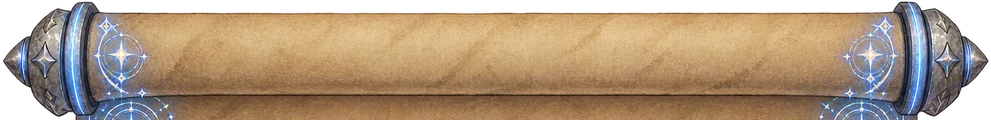
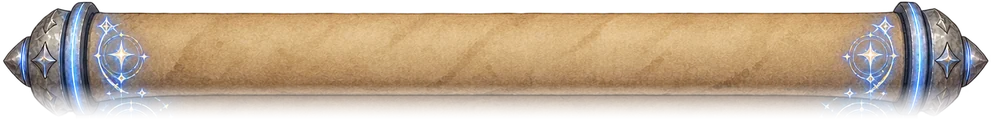
Blended top and bottom roller transition

Changed region(s): [[0.0303, 0.725, 0.9687, 1.0]]

diff --git a/tools/scroll_assets.py b/tools/scroll_assets.py
@@ -17,12 +17,16 @@ Roller crop boxes frame just the roller. Any glow or smoke beyond its outer
 edge (above the top roller, below the bottom one) is kept as well, faded out
 towards the image edge, and the "ext" this prints goes into style.css as
 --roll-top-ext / --roll-bottom-ext so it's drawn outside the roller's box.
+The inner edge (where the roller meets the sheet) is faded out so the bit of
+sheet caught in the roller crop blends into the sheet underneath instead of
+ending in a hard line.
 """
 from pathlib import Path
 import numpy as np
 from PIL import Image
 
 ROOT = Path(__file__).resolve().parent.parent
+INNER_FADE = 0.3   # share of a roller's height faded out along its inner edge
 
 SCHOOLS = {
     "evocation": {
@@ -155,6 +159,17 @@ def extend_roller(im, box, outward):
     return out, ext
 
 
+def fade_inner(im, rows, side):
+    """Fade the `rows` rows along the image's top or bottom `side` to transparent."""
+    a = np.asarray(im).copy()
+    ramp = np.linspace(0, 1, rows, dtype=np.float32) ** 1.5   # eased, so the roller itself stays solid
+    if side == "top":
+        a[:rows, :, 3] = (a[:rows, :, 3] * ramp[:, None]).round().astype(np.uint8)
+    else:
+        a[-rows:, :, 3] = (a[-rows:, :, 3] * ramp[::-1, None]).round().astype(np.uint8)
+    return Image.fromarray(a, "RGBA")
+
+
 def main():
     for school, cfg in SCHOOLS.items():
         src, dst = ROOT / "img" / "raw" / school, ROOT / "img" / school
@@ -162,10 +177,11 @@ def main():
         for name in ("roll-top", "roll-bottom", "middle", "sigil"):
             file, box = cfg[name]
             im = Image.open(src / file).convert("RGBA")
-            ext = 0
+            ext = core_h = 0
             if name in ("roll-top", "roll-bottom"):
                 core_h = box[3] - box[1]
                 im, ext = extend_roller(im, box, "up" if name == "roll-top" else "down")
+                im = fade_inner(im, round(core_h * INNER_FADE), "bottom" if name == "roll-top" else "top")
             elif box:
                 im = im.crop(box)
             if name == "middle":
@@ -173,7 +189,7 @@ def main():
             extra = {"sigil-hole": hole_mask(im, cfg["sigil_hole_seed"])} if name == "sigil" and "sigil_hole_seed" in cfg else {}
             axis, px = cfg["sizes"][name]
             # rollers are scaled by the roller itself, so the slices don't move when the extension changes
-            scale = px / (core_h if ext else im.height if axis == "h" else im.width)
+            scale = px / (core_h if core_h else im.height if axis == "h" else im.width)
             size = (round(im.width * scale), round(im.height * scale))
             for out_name, out_im in {name: im, **extra}.items():
                 out_im = out_im.resize(size, Image.LANCZOS)
